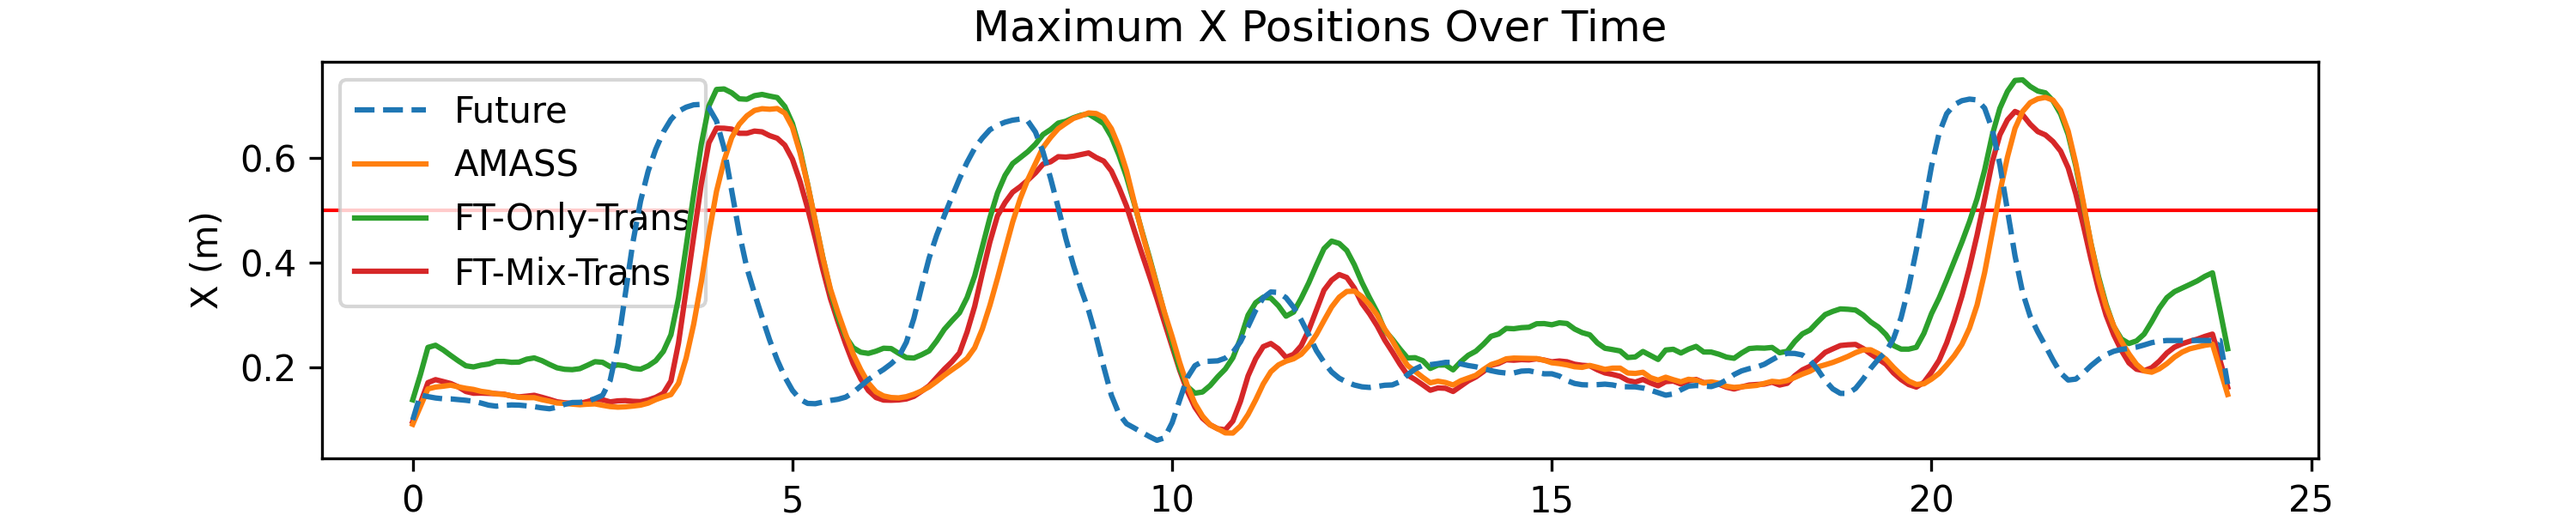
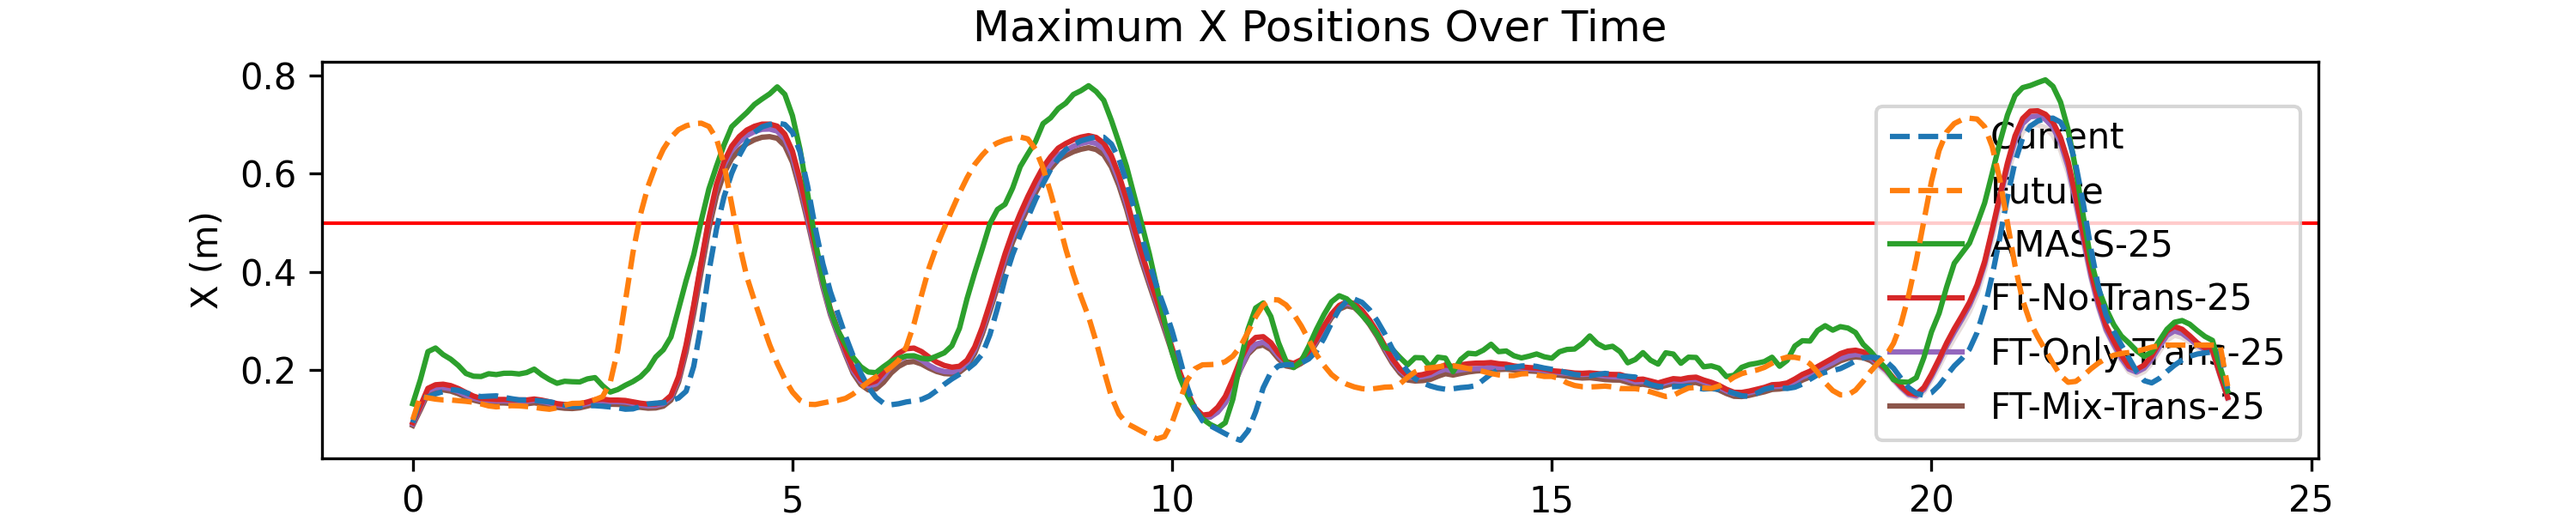
Updated visualizations and fixed bugs. Also changed our dataloaders to ignore bad data with missing markers

diff --git a/plot_positions.py b/plot_positions.py
@@ -73,7 +73,7 @@ tcnn_kernel_size = [3,3]
 tcnn_dropout = 0.0
 
 def create_model(model_path):
-    model = Model(input_dim, input_n, output_n,st_gcnn_dropout, joints_to_consider,
+    model = Model(input_dim,input_n, output_n,st_gcnn_dropout, joints_to_consider,
                 n_tcnn_layers, tcnn_kernel_size, tcnn_dropout).to('cpu')
     model.load_state_dict(torch.load(model_path, map_location=torch.device('cpu')))
     model.eval()
@@ -83,10 +83,17 @@ def create_model(model_path):
 model_map = {
     'AMASS': create_model(f'{model_folder}/pretrained_unweighted/49_amass_3d_25frames_ckpt'),
     # TODO: Create model trained on only our data
-    # 'FT': create_model(f'{model_folder}/finetuned_stirring_unweighted_no_transitions/19_amass_3d_25frames_ckpt'),
-    'FT-Only-Trans': create_model(f'{model_folder}/finetuned_stirring_unweighted_only_transitions/19_amass_3d_25frames_ckpt'),
-    'FT-Mix-Trans': create_model(f'{model_folder}/finetuned_stirring_unweighted_with_transitions/19_amass_3d_25frames_ckpt'),
-    # 'FT-Trans-Weight': create_model(f'{model_folder}/finetuned_stirring_wrist_10_elbow_2_with_transitions/19_amass_3d_25frames_ckpt')
+    # 'FT-No-Trans': create_model(f'{model_folder}/all_finetuned_unweighted_hist10_no_transitions_1e-04/49_amass_3d_25frames_ckpt'),
+    # 'FT-Mix-Trans': create_model(f'{model_folder}/all_finetuned_unweighted_hist10_mixed_transitions_1e-04/49_amass_3d_25frames_ckpt'),
+    'FT-Mix-Trans-Wrist6': create_model(f'{model_folder}/all_finetuned_wrist6_hist10_mixed_transitions_1e-04/49_amass_3d_25frames_ckpt')
+}
+color_map = {
+    'Current': '#fc8d62',
+    'Future': '#e41a1c',
+    'AMASS': '#377eb8',
+    # TODO: Create model trained on only our data
+    # 'FT-Mix-Trans': '#4daf4a',
+    'FT-Mix-Trans-Wrist6': '#4daf4a'
 }
 
 
@@ -101,7 +108,7 @@ joint_used = np.array([mapping[joint_name] for joint_name in relevant_joints])
 
 joint_data = np.array(data[stream_person])[120*7:]
 
-threshold = 0.4
+threshold = 0.5
 
 current_reaction_times = []
 current_in_danger = False
@@ -119,14 +126,14 @@ forecast_losses = {model_name: [] for model_name in model_map.keys()}
 time_values = []
 
 print(joint_data.shape)
-step_interval = 12
+step_interval = 2
 
 for timestep in range(joint_data.shape[0]):
     if (timestep%step_interval) == 0:
         time_values.append(timestep / 120.0)
 
     current_joints = get_relevant_joints(joint_data[timestep])
-    x_max = np.array(current_joints)[:, 0].max()
+    x_max = np.array(current_joints)[[6], 0].max()
     if (timestep%step_interval) == 0:
         current_x_values.append(x_max)
     if x_max < threshold: current_in_danger=False
@@ -137,7 +144,7 @@ for timestep in range(joint_data.shape[0]):
     history_joints = get_history(joint_data, timestep)
     future_joints = get_future(joint_data, timestep)
 
-    x_max = np.array(future_joints)[-1, :, 0].max()
+    x_max = np.array(future_joints)[-1, [6], 0].max()
     if (timestep%step_interval) == 0:
         future_x_values.append(x_max)
     if x_max < threshold: future_in_danger=False
@@ -146,8 +153,9 @@ for timestep in range(joint_data.shape[0]):
         future_in_danger=True
 
     for model_name, model in model_map.items():
+        history_joints = get_history(joint_data, timestep, history_length=25 if ('25' in model_name) else 10)
         forecast_joints = get_forecast(history_joints, model)
-        x_max = np.array(forecast_joints)[:, :, 0].max()
+        x_max = np.array(forecast_joints)[-1, [6], 0].max()
         if (timestep%step_interval) == 0:
             seq_pred = torch.tensor(forecast_joints[:-2]).unsqueeze(0)
             seq_gt = torch.tensor(future_joints[:-2]).unsqueeze(0)
@@ -171,29 +179,54 @@ for timestep in range(joint_data.shape[0]):
 plotting = True
 if plotting:
     plot_folder = './plots/'
-    plot_name = activity + f'{episode_num}' + '.png'
+    plot_name = activity + f'{episode_num}_testing' + '.png'
     # Create the plot
-    window_size = 3
+    window_size = 15
     current_x_values_smooth = np.convolve(current_x_values, np.ones(window_size)/window_size, mode='same')
     future_x_values_smooth = np.convolve(future_x_values, np.ones(window_size)/window_size, mode='same')
-    plt.plot(time_values, current_x_values_smooth, label='Current', linestyle='--',zorder=9)
-    plt.plot(time_values, future_x_values_smooth, label='Future', linestyle='--',zorder=10)
+    # plt.plot(time_values, current_x_values_smooth, label='Current', linestyle='--',zorder=9)
+    current_mask = np.array(current_x_values_smooth) < 0.5
+    plt.plot(time_values, np.where(current_mask, np.nan, current_x_values_smooth), label='Current', linestyle='--', zorder=9, alpha=1.0, color=color_map['Current'])
+    plt.plot(time_values, np.where(current_mask, current_x_values_smooth, np.nan), label='Current', linestyle='--', zorder=9, alpha=0.25, color=color_map['Current'])
+    
+
+
+    # plt.plot(time_values, future_x_values_smooth, label='Future', linestyle='--',zorder=10)
+    future_mask = np.array(future_x_values_smooth) < 0.5
+    plt.plot(time_values, np.where(future_mask, np.nan, future_x_values_smooth), label='Future', linestyle='--', zorder=10, alpha=1.0, color=color_map['Future'])
+    plt.plot(time_values, np.where(future_mask, future_x_values_smooth, np.nan), label='Future', linestyle='--', zorder=10, alpha=0.25, color=color_map['Future'])
+    
+
     for i, (model_name, forecast_x) in enumerate(forecast_x_values.items()):
-        window_size = 5
+        window_size = 17
         # print(f'{model_name}: {forecast_x}')
         forecast_x_smooth = np.convolve(forecast_x, np.ones(window_size)/window_size, mode='same')
-        plt.plot(time_values, forecast_x_smooth, label=f'{model_name}', linestyle='-',zorder=8-i)
-    plt.axhline(y=0.5, color='r', linestyle='-', linewidth=1,zorder=0)
+
+        mask = np.array(forecast_x_smooth) < 0.5
+        plt.plot(time_values, np.where(mask, np.nan, forecast_x_smooth), label=f'{model_name}', linestyle='-', zorder=8-i, alpha=1.0, color=color_map[f'{model_name}'])
+        plt.plot(time_values, np.where(mask, forecast_x_smooth, np.nan), label=f'{model_name}', linestyle='-', zorder=8-i, alpha=0.25, color=color_map[f'{model_name}'])
+        
+
+    plt.axhline(y=0.5, color='black', linestyle='-', linewidth=1,zorder=0,alpha=0.5)
 
     # Set plot title and labels
-    plt.title('Maximum X Positions Over Time')
+    plt.title('Wrist X-Position Over Time')
     plt.xlabel('Time (s)')
     plt.ylabel('X (m)')
 
     # Add a legend
-    plt.legend()
+    handles, labels = plt.gca().get_legend_handles_labels()
+    unique_labels = ['Future', 'FT-Mix-Trans-Wrist6', 'AMASS', 'Current']
+    unique_handles = [handles[labels.index(label)] for label in unique_labels]
+    legend_position = 'upper left'  # Position of the legend
+    legend_bbox_to_anchor = (0, 1)  # Bbox coordinates of the legend
+    legend_fontsize = 'small'  # Font size of the legend text
+
+    plt.legend(unique_handles, unique_labels, loc=legend_position, bbox_to_anchor=legend_bbox_to_anchor, fontsize=legend_fontsize)
 
     plt.gcf().set_size_inches(10, 2)
+    plt.subplots_adjust(bottom=0.25)  # Increase or decrease the values as needed
+
 
     # Save the plot as a PNG image file
     plt.savefig(plot_folder + plot_name, dpi=300)
@@ -204,13 +237,13 @@ plt.clf()
 plotting_mpjpe = True
 if plotting_mpjpe:
     plot_folder = './plots_losses/'
-    plot_name = activity + f'{episode_num}' + '.png'
+    plot_name = activity + f'{episode_num}_testing' + '.png'
     # Create the plot
     for i, (model_name, forecast_loss) in enumerate(forecast_losses.items()):
-        window_size = 5
+        window_size = 21
         # print(f'{model_name}: {forecast_loss}')
         forecast_loss_smooth = np.convolve(forecast_loss, np.ones(window_size)/window_size, mode='same')
-        plt.plot(time_values, forecast_loss_smooth, label=f'{model_name}', linestyle='-',zorder=8-i)
+        plt.plot(time_values, forecast_loss_smooth, label=f'{model_name}', linestyle='-',zorder=8-i,color=color_map[f'{model_name}'])
 
     # Set plot title and labels
     plt.title('MPJPE Loss Over Time')
@@ -218,9 +251,18 @@ if plotting_mpjpe:
     plt.ylabel('MPJPE (mm)')
 
     # Add a legend
-    plt.legend()
+    handles, labels = plt.gca().get_legend_handles_labels()
+    unique_labels = list(set(labels))
+    unique_handles = [handles[labels.index(label)] for label in unique_labels]
+    legend_position = 'upper left'  # Position of the legend
+    legend_bbox_to_anchor = (0, 1)  # Bbox coordinates of the legend
+    legend_fontsize = 'small'  # Font size of the legend text
+
+    plt.legend(unique_handles, unique_labels, loc=legend_position, bbox_to_anchor=legend_bbox_to_anchor, fontsize=legend_fontsize)
 
     plt.gcf().set_size_inches(10, 2)
+    plt.subplots_adjust(bottom=0.25)  # Increase or decrease the values as needed
+
 
     # Save the plot as a PNG image file
     plt.savefig(plot_folder + plot_name, dpi=300)

diff --git a/utils/transitions_3d.py b/utils/transitions_3d.py
@@ -1,6 +1,6 @@
 import torch
 from torch.utils.data import Dataset
-from utils.read_json_data import read_json, get_pose_history
+from utils.read_json_data import read_json, get_pose_history, missing_data
 import os
 import numpy as np
 
@@ -48,6 +48,10 @@ class Transitions(Dataset):
             f'{self.data_dir}/chopping_mixing_data': read_json(f'{self.data_dir}/chopping_mixing_data/chopping_mixing_transitions.json'),
             f'{self.data_dir}/chopping_stirring_data': read_json(f'{self.data_dir}/chopping_stirring_data/chopping_stirring_transitions.json')
         }
+        joint_names = ['BackTop', 'LShoulderBack', 'RShoulderBack',
+                      'LElbowOut', 'RElbowOut', 'LWristOut', 'RWristOut']
+        mapping = read_json('./mapping.json')
+        joint_used = np.array([mapping[joint_name] for joint_name in joint_names])
         
 
         ignore_data = {
@@ -60,7 +64,7 @@ class Transitions(Dataset):
             "Kushal":[]
         }
 
-
+        missing_cnt = 0
         for ds in mocap_splits[split]:
             print(f'>>> loading {ds}')
             for episode in os.listdir(self.data_dir + '/' + ds):
@@ -91,6 +95,10 @@ class Transitions(Dataset):
                                 #     print(f'Begin: {begin}\nLast: {end_frame+1-sequence_len}\n{skipped_frames.shape[0]}')
                                 #     print(skipped_frames[begin:begin+sequence_len, :, :].shape)
                                 #     print(episode)
+                                if missing_data(skipped_frames[begin:begin+sequence_len, joint_used, :]):
+                                    missing_cnt += 1
+                                    continue
+
                                 self.data_lst.append(skipped_frames[begin:begin+sequence_len, :, :])
 
                 else: # this branch is for table setting, where the entirety of the episode has transitions for both people
@@ -102,14 +110,17 @@ class Transitions(Dataset):
                         skip_rate = int(round(120/self.sample_rate))
                         select_frames = torch.tensor(range(len(tensor)//skip_rate))*skip_rate
                         skipped_frames = tensor[select_frames]
-
                         for start_frame in range(skipped_frames.shape[0]-sequence_len):
                             end_frame = start_frame + sequence_len
+                            if missing_data(skipped_frames[start_frame:end_frame, joint_used, :]):
+                                missing_cnt += 1
+                                continue
                             self.data_lst.append(skipped_frames[start_frame:end_frame, :, :])
 
         for idx, seq in enumerate(self.data_lst):
             self.data_lst[idx] = seq[:, :, :] - seq[input_n-1:input_n, 21:22, :]
         print(len(self.data_lst))
+        print(f'Missing {missing_cnt}')
 
 
     def __len__(self):

diff --git a/utils/mocap_3d.py b/utils/mocap_3d.py
@@ -3,7 +3,7 @@ import numpy as np
 from matplotlib import pyplot as plt
 import torch
 import os
-from utils.read_json_data import read_json, get_pose_history
+from utils.read_json_data import read_json, get_pose_history, missing_data
 
 default_splits = [
             [
@@ -26,6 +26,8 @@ default_splits = [
             ],
         ]
 
+
+
 default_names = ["Kushal", "Prithwish"]
 
 class Datasets(Dataset):
@@ -42,6 +44,10 @@ class Datasets(Dataset):
         self.split = split
         self.data_lst = []
         sequence_len = input_n + output_n
+        joint_names = ['BackTop', 'LShoulderBack', 'RShoulderBack',
+                      'LElbowOut', 'RElbowOut', 'LWristOut', 'RWristOut']
+        mapping = read_json('./mapping.json')
+        joint_used = np.array([mapping[joint_name] for joint_name in joint_names])
         
 
         ignore_data = {
@@ -50,11 +56,19 @@ class Datasets(Dataset):
                          'chopping_mixing_4.json',
                          'chopping_mixing_5.json',
                          'chopping_mixing_8.json',
-                         'chopping_stirring_0.json'],
-            "Kushal":[]
+                         'chopping_stirring_0.json',
+                         'chopping_stirring_12.json',
+                         'chopping_stirring_14.json'],
+            "Kushal":['table_setting_4.json',
+                      'table_setting_5.json',
+                      'table_setting_6.json',
+                      'table_setting_7.json',
+                      'table_setting_8.json',
+                      'table_setting_9.json',
+                      'table_setting_10.json',]
         }
 
-
+        missing_cnt = 0
         for ds in mocap_splits[split]:
             print(f'>>> loading {ds}')
             for episode in os.listdir(self.data_dir + '/' + ds):
@@ -73,9 +87,14 @@ class Datasets(Dataset):
                     skipped_frames = tensor[select_frames]
                     for start_frame in range(skipped_frames.shape[0]-sequence_len):
                         end_frame = start_frame + sequence_len
+                        if missing_data(skipped_frames[start_frame:end_frame, joint_used, :]):
+                            missing_cnt += 1
+                            continue
                         self.data_lst.append(skipped_frames[start_frame:end_frame, :, :])
         for idx, seq in enumerate(self.data_lst):
             self.data_lst[idx] = seq[:, :, :] - seq[input_n-1:input_n, 21:22, :]
+        print(len(self.data_lst))
+        print(f'Missing: {missing_cnt}')
 
 
     def __len__(self):

diff --git a/finetune_double.py b/finetune_double.py
@@ -25,10 +25,8 @@ device = torch.device('cuda' if torch.cuda.is_available() else 'cpu')
 print('Using device: %s'%device)
 
 def train(model, writer, joint_used, joint_names, model_name, joint_weights):
-    train_on_nontransitions = True 
-    train_on_transitions = True
 
-    optimizer=optim.Adam(model.parameters(),lr=1e-4,weight_decay=1e-05)
+    optimizer=optim.Adam(model.parameters(),lr=args.lr_ft,weight_decay=1e-05)
 
     Dataset_transitions_train = Transitions('./mocap_data',args.input_n,args.output_n,sample_rate=25,split=0)
     Dataset_transitions_val = Transitions('./mocap_data',args.input_n,args.output_n,sample_rate=25,split=1)
@@ -88,7 +86,7 @@ def train(model, writer, joint_used, joint_names, model_name, joint_weights):
         model.train()
 
         for cnt,(batch, batch2) in enumerate(zip(loader_train, loader_transition_train)): 
-            if train_on_nontransitions:
+            if args.nontransitions > 0:
                 batch = batch.float().to(device)[:, :, joint_used] # multiply by 1000 for milimeters
                 batch_dim=batch.shape[0]
                 n+=batch_dim
@@ -109,7 +107,7 @@ def train(model, writer, joint_used, joint_names, model_name, joint_weights):
                 running_per_joint_error += per_joint_error*batch_dim
                 running_fde += fde*batch_dim
             
-            if train_on_transitions:
+            if args.transitions > 0:
                 batch2 = batch2.float().to(device)[:, :, joint_used] # multiply by 1000 for milimeters
                 batch_dim=batch2.shape[0]
                 n+=batch_dim
@@ -217,7 +215,7 @@ def train(model, writer, joint_used, joint_names, model_name, joint_weights):
                    )
 
 if __name__ == '__main__':
-    # python finetune_double.py --load_path pretrained_unweighted --model_path all_finetuned_unweighted_with_transitions --n_epochs 20 --weight 1 --input_n 10
+    # python finetune_double.py --load_path pretrained_unweighted_hist25 --model_path all_finetuned_unweighted_with_transitions --n_epochs 20 --weight 1 --input_n 25
     weight = args.weight
     joint_weights_base = torch.tensor([1, 1, 1, 1, 1, weight, weight]).float().to(device)
     joint_weights = joint_weights_base.unsqueeze(0).unsqueeze(0).unsqueeze(3)

diff --git a/check_reaction_times.py b/check_reaction_times.py
@@ -101,7 +101,7 @@ model_path = f'{model_folder}/finetune_5_1e-03/amass_3d_25frames_ckpt'
 # model_path = f'{model_folder}/finetuned_stirring_unweighted_{train_data}/19_amass_3d_25frames_ckpt'
 # model_path = f'{model_folder}/finetuned_stirring_wrist_10_elbow_2_{train_data}/19_amass_3d_25frames_ckpt'
 model_path = f'{model_folder}/pretrained_unweighted/49_amass_3d_25frames_ckpt'
-# model_path = f'{model_folder}/pretrained/49_amass_3d_25frames_ckpt'
+# model_path = f'{model_folder}/all_finetuned_unweighted_hist10_no_transitions_1e-04/49_amass_3d_25frames_ckpt'
 # model_path = /home/portal/Human_Motion_Forecasting/checkpoints/
 episode_folder = "./mocap_data"
 activity = "stirring_reaction"
@@ -136,7 +136,7 @@ joint_used = np.array([mapping[joint_name] for joint_name in relevant_joints])
 joint_data = np.array(data[stream_person])
 # rate = rospy.Rate(1200)
 
-threshold = 0.4
+threshold = 0.5
 
 current_reaction_times = []
 current_in_danger = False

diff --git a/utils/parser.py b/utils/parser.py
@@ -31,6 +31,7 @@ parser.add_argument('--tcnn_dropout',type=float,default=0.0,help= 'tcnn dropout'
 
 
 
+
 #ARGS FOR THE TRAINING
 
 
@@ -48,6 +49,9 @@ parser.add_argument('--clip_grad',type=float,default=None,help= 'select max norm
 parser.add_argument('--model_path',type=str,default='./checkpoints/CKPT_3D_H36M',help= 'directory with the models checkpoints ')
 parser.add_argument('--load_path',type=str,default='pretrain',help= 'directory with the models checkpoints ')
 parser.add_argument('--weight',type=int,default=1,help= 'directory with the models checkpoints ')
+parser.add_argument('--lr_ft',type=float,default=1e-04,help='Learning rate of the optimizer for finetuning')
+parser.add_argument('--transitions',type=int,default=1,help= 'use transitions for training')
+parser.add_argument('--nontransitions',type=int,default=1,help= 'use non transitions for training')
 
 #FLAGS FOR THE VISUALIZATION
 

diff --git a/utils/read_json_data.py b/utils/read_json_data.py
@@ -1,6 +1,10 @@
 import json
 import torch
 
+def missing_data(tensor):
+    return torch.any(torch.all(tensor == 0, dim=-1))
+
+
 """
 Reads in the Motive json data into python object
 """
